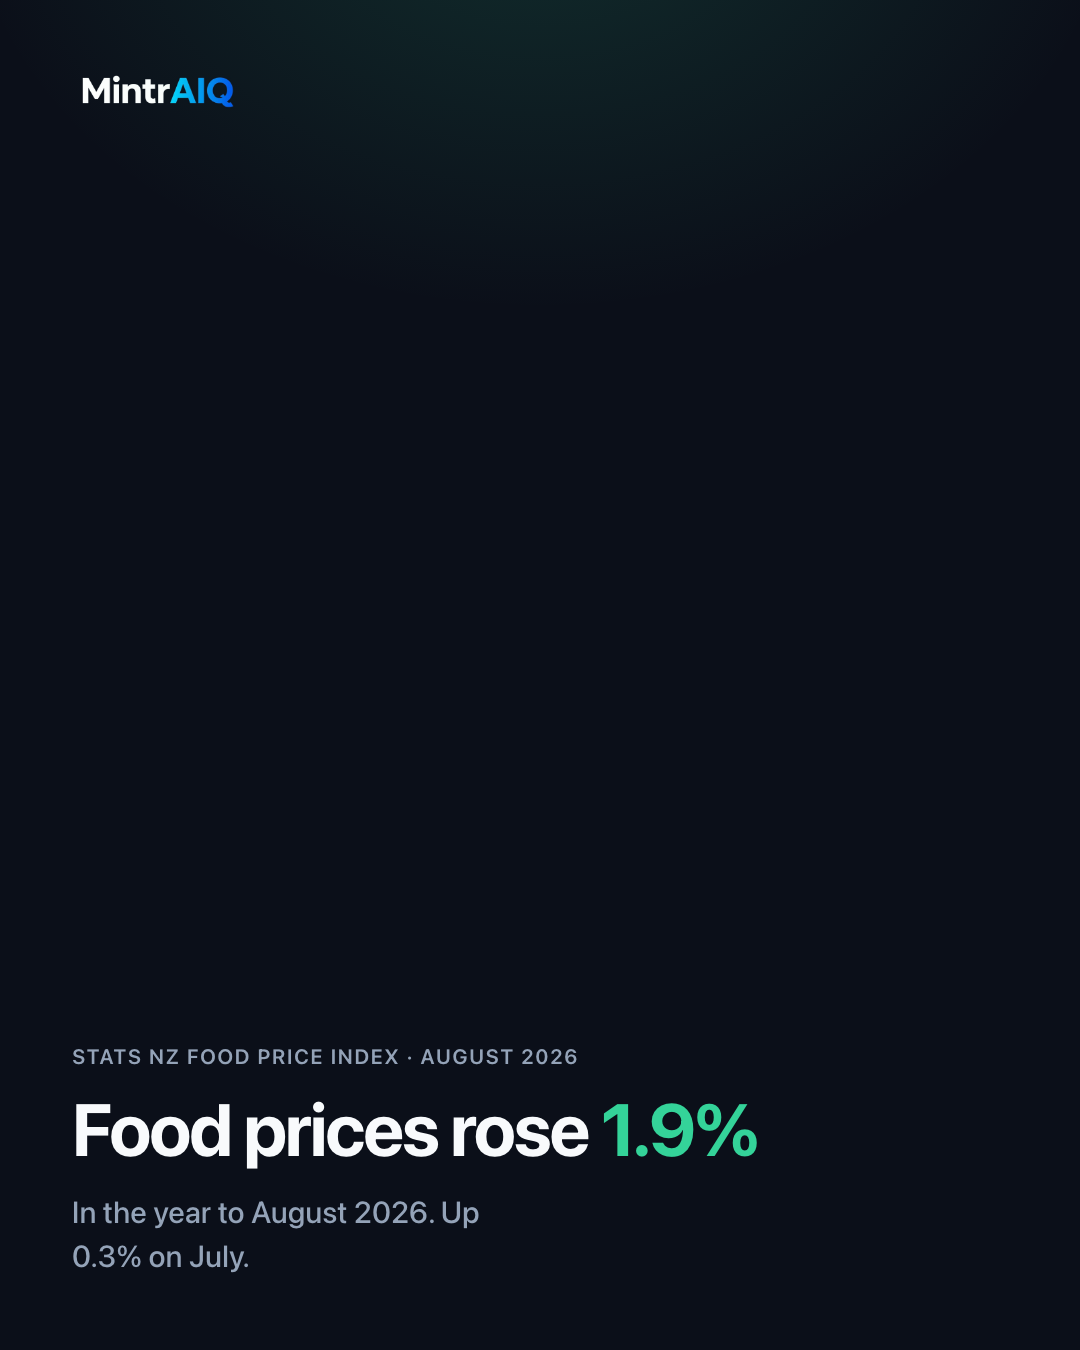
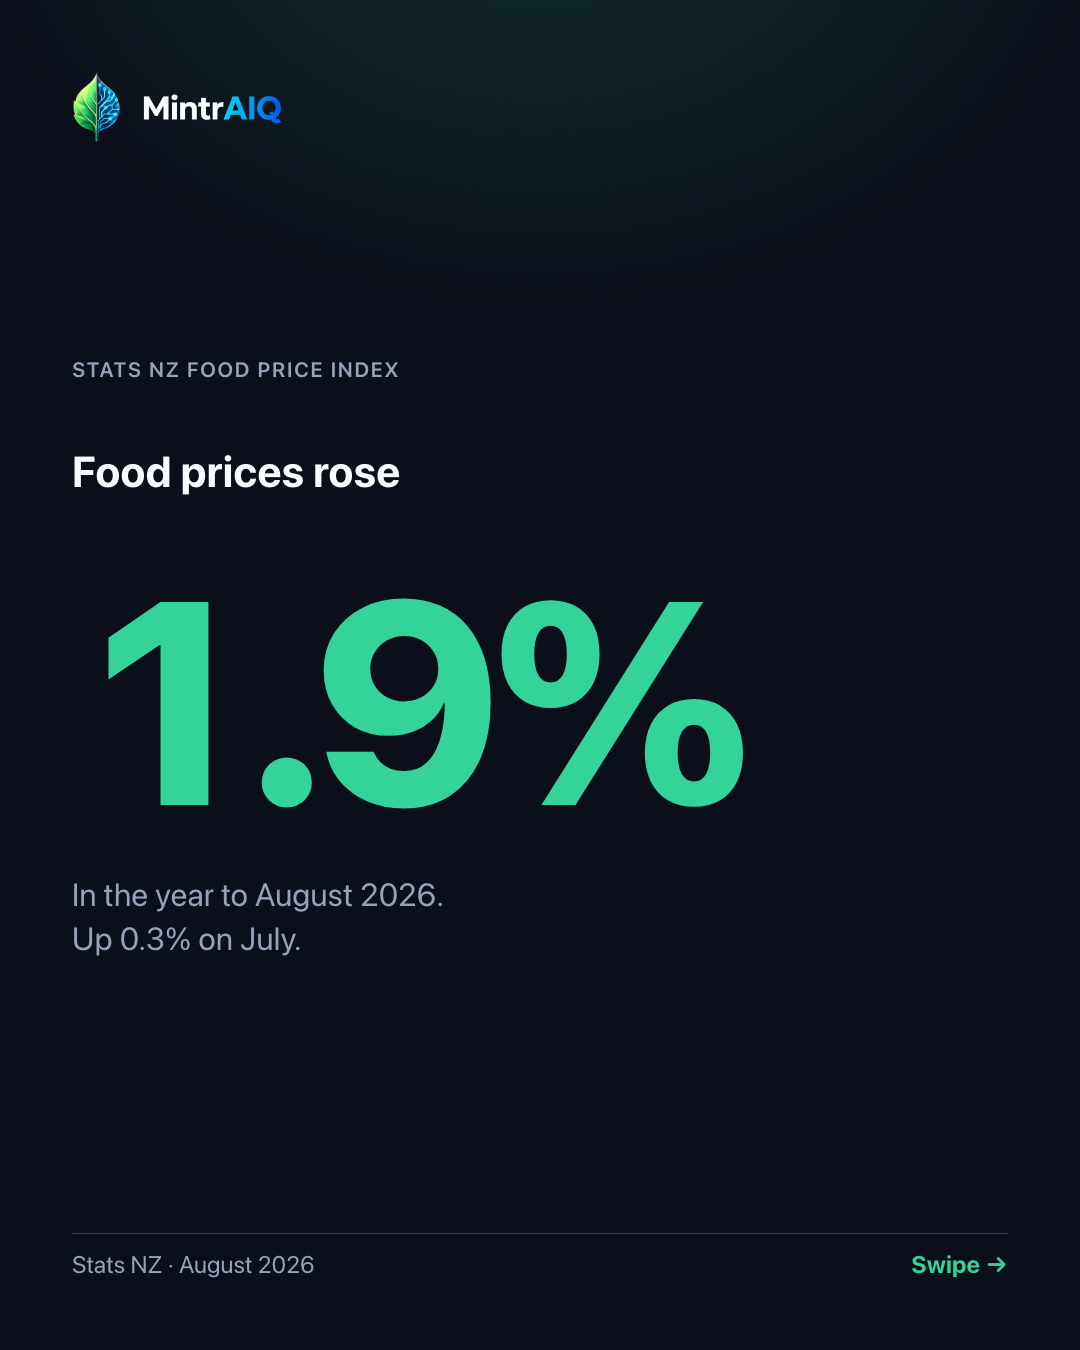
fix(mintraiq-web): compose the full lockup and stop the frames reading as empty
Two things from founder review.

The header carries the full lockup now — leaf plus wordmark, not the wordmark
alone. Built from the two transparent sources rather than a logo file: all three
shipped logo assets (mintraiq-logo, mintraiq-logo-wordmark, mintr-app-icon) have
opaque dark backgrounds baked in, and the lockup supplied for reference is on
white. Any of them would draw a rectangle on the #0B0F19 canvas, which is the
trap the brand reference already records for the shipped wordmark. Compositing
the keyed wordmark beside assets/mintr-leaf-mark.png gives the same lockup with
no background to fight.

The dead space was real and it was my error. frame.css anchors content to the
bottom because that is correct for a reel, where the action rail and caption eat
the lower 18% — a feed carousel has neither, so the same rule left the top half
empty and the hook small in the feed. Feed frames are now centred, the type
scale is up, and slides 1-3 carry a footer rule with a swipe affordance so the
bottom is anchored rather than merely unoccupied.

Slide 1 is rebuilt around the figure itself. On a `number` post the number is
the image: at thumbnail size a large percentage still reads and a sentence does
not.

Slide 4 lost its standalone leaf, which became a repeat once the header gained
one.

diff --git a/marketing/reels/2026-09-20-food-index/frames/02-spread.html b/marketing/reels/2026-09-20-food-index/frames/02-spread.html
@@ -10,9 +10,39 @@
                font-variant-numeric: tabular-nums; color: var(--text); }
   .cmp .up   { color: var(--text); }
   .cmp .down { color: var(--danger); }
+  .hook { font-size: calc(112px * var(--u)); }
+  .headline { font-size: calc(78px * var(--u)); }
+  .body { font-size: calc(44px * var(--u)); max-width: 26ch; }
+  /* Anchors the bottom of the frame. Without it the header holds the top and
+     the lower third reads as unfinished rather than as deliberate space. */
+  .foot { position: absolute; left: var(--pad); right: var(--pad);
+          bottom: var(--pad); display: flex; align-items: center;
+          justify-content: space-between;
+          font-size: calc(30px * var(--u)); color: var(--text-muted);
+          border-top: 1px solid var(--border); padding-top: calc(20px * var(--u)); }
+  .foot .swipe { color: var(--mint); font-weight: 700; }
+</style>
+<style>
+  /* Full lockup: leaf + wordmark, both from transparent sources so they
+     composite on the dark canvas. Leaf runs taller than the wordmark, matching
+     the brand lockup proportions. */
+  .lockup { display: flex; align-items: center; gap: calc(16px * var(--u)); }
+  .lockup .leafmark { height: calc(92px * var(--u)); width: auto; }
+  .lockup .word     { height: calc(44px * var(--u)); width: auto; }
+  .hook { font-size: calc(112px * var(--u)); }
+  .headline { font-size: calc(78px * var(--u)); }
+  .body { font-size: calc(44px * var(--u)); max-width: 26ch; }
+  /* Anchors the bottom of the frame. Without it the header holds the top and
+     the lower third reads as unfinished rather than as deliberate space. */
+  .foot { position: absolute; left: var(--pad); right: var(--pad);
+          bottom: var(--pad); display: flex; align-items: center;
+          justify-content: space-between;
+          font-size: calc(30px * var(--u)); color: var(--text-muted);
+          border-top: 1px solid var(--border); padding-top: calc(20px * var(--u)); }
+  .foot .swipe { color: var(--mint); font-weight: 700; }
 </style>
 <body class="frame feed glow is-centered">
-  <div class="lockup"><img src="/Users/ram/.claude/plugins/cache/mintraiq/mintraiq-toolkit/0.10.0/skills/marketing-reel/templates/assets/wordmark.png" alt="Mintr"></div>
+  <div class="lockup"><img class="leafmark" src="/Users/ram/Desktop/Ram/mintraiq-web/assets/mintr-leaf-mark.png" alt=""><img class="word" src="/Users/ram/.claude/plugins/cache/mintraiq/mintraiq-toolkit/0.10.0/skills/marketing-reel/templates/assets/wordmark.png" alt="Mintr"></div>
   <span class="label">Annual change to August 2026</span>
   <h1 class="headline">The average <em>hid this</em></h1>
   <div class="cmp">
@@ -21,5 +51,6 @@
     <div class="line"><span class="name">Grocery food</span><span class="rule"></span><span class="val up">+1.7%</span></div>
     <div class="line"><span class="name">Fruit and vegetables</span><span class="rule"></span><span class="val down">−1.6%</span></div>
   </div>
-  <p class="body" style="margin-top:calc(28px * var(--u)); max-width:100%">Source: Stats NZ food price index</p>
+  <p class="body" style="max-width:100%">Source: Stats NZ food price index</p>
+  <div class="foot"><span></span><span class="swipe">Swipe →</span></div>
 </body>

diff --git a/marketing/reels/2026-09-20-food-index/frames/01-hook.html b/marketing/reels/2026-09-20-food-index/frames/01-hook.html
@@ -1,9 +1,36 @@
 <!doctype html>
 <meta charset="utf-8">
 <link rel="stylesheet" href="/Users/ram/.claude/plugins/cache/mintraiq/mintraiq-toolkit/0.10.0/skills/marketing-reel/templates/frame.css">
-<body class="frame feed glow">
-  <div class="lockup"><img src="/Users/ram/.claude/plugins/cache/mintraiq/mintraiq-toolkit/0.10.0/skills/marketing-reel/templates/assets/wordmark.png" alt="Mintr"></div>
-  <span class="label">Stats NZ food price index · August 2026</span>
-  <h1 class="hook">Food prices rose <em>1.9%</em></h1>
-  <p class="body">In the year to August 2026. Up 0.3% on July.</p>
+<style>
+  .lockup { display: flex; align-items: center; gap: calc(16px * var(--u)); }
+  .lockup .leafmark { height: calc(92px * var(--u)); width: auto; }
+  .lockup .word     { height: calc(44px * var(--u)); width: auto; }
+  /* The figure is the image. At thumbnail size a number still reads; a
+     sentence does not. */
+  .hero { font-size: calc(360px * var(--u)); font-weight: 800; line-height: 0.86;
+          letter-spacing: -0.04em; font-variant-numeric: tabular-nums;
+          color: var(--mint); margin: calc(14px * var(--u)) 0; }
+  .over { font-size: calc(54px * var(--u)); font-weight: 700; color: var(--text);
+          line-height: 1.15; max-width: 20ch; }
+  .under { font-size: calc(40px * var(--u)); color: var(--text-muted);
+           line-height: 1.4; margin-top: calc(22px * var(--u)); max-width: 24ch; }
+  /* Anchors the bottom of the frame. Without it the header holds the top and
+     the lower third reads as unfinished rather than as deliberate space. */
+  .foot { position: absolute; left: var(--pad); right: var(--pad);
+          bottom: var(--pad); display: flex; align-items: center;
+          justify-content: space-between;
+          font-size: calc(30px * var(--u)); color: var(--text-muted);
+          border-top: 1px solid var(--border); padding-top: calc(20px * var(--u)); }
+  .foot .swipe { color: var(--mint); font-weight: 700; }
+</style>
+<body class="frame feed glow is-centered">
+  <div class="lockup">
+    <img class="leafmark" src="/Users/ram/Desktop/Ram/mintraiq-web/assets/mintr-leaf-mark.png" alt="">
+    <img class="word" src="/Users/ram/.claude/plugins/cache/mintraiq/mintraiq-toolkit/0.10.0/skills/marketing-reel/templates/assets/wordmark.png" alt="Mintr">
+  </div>
+  <span class="label">Stats NZ food price index</span>
+  <p class="over">Food prices rose</p>
+  <p class="hero">1.9%</p>
+  <p class="under">In the year to August 2026.<br>Up 0.3% on July.</p>
+  <div class="foot"><span>Stats NZ · August 2026</span><span class="swipe">Swipe →</span></div>
 </body>

diff --git a/marketing/reels/2026-09-20-food-index/frames/03-point.html b/marketing/reels/2026-09-20-food-index/frames/03-point.html
@@ -1,9 +1,29 @@
 <!doctype html>
 <meta charset="utf-8">
 <link rel="stylesheet" href="/Users/ram/.claude/plugins/cache/mintraiq/mintraiq-toolkit/0.10.0/skills/marketing-reel/templates/frame.css">
-<body class="frame feed glow">
-  <div class="lockup"><img src="/Users/ram/.claude/plugins/cache/mintraiq/mintraiq-toolkit/0.10.0/skills/marketing-reel/templates/assets/wordmark.png" alt="Mintr"></div>
+<style>
+  /* Full lockup: leaf + wordmark, both from transparent sources so they
+     composite on the dark canvas. Leaf runs taller than the wordmark, matching
+     the brand lockup proportions. */
+  .lockup { display: flex; align-items: center; gap: calc(16px * var(--u)); }
+  .lockup .leafmark { height: calc(92px * var(--u)); width: auto; }
+  .lockup .word     { height: calc(44px * var(--u)); width: auto; }
+  .hook { font-size: calc(112px * var(--u)); }
+  .headline { font-size: calc(78px * var(--u)); }
+  .body { font-size: calc(44px * var(--u)); max-width: 26ch; }
+  /* Anchors the bottom of the frame. Without it the header holds the top and
+     the lower third reads as unfinished rather than as deliberate space. */
+  .foot { position: absolute; left: var(--pad); right: var(--pad);
+          bottom: var(--pad); display: flex; align-items: center;
+          justify-content: space-between;
+          font-size: calc(30px * var(--u)); color: var(--text-muted);
+          border-top: 1px solid var(--border); padding-top: calc(20px * var(--u)); }
+  .foot .swipe { color: var(--mint); font-weight: 700; }
+</style>
+<body class="frame feed glow is-centered">
+  <div class="lockup"><img class="leafmark" src="/Users/ram/Desktop/Ram/mintraiq-web/assets/mintr-leaf-mark.png" alt=""><img class="word" src="/Users/ram/.claude/plugins/cache/mintraiq/mintraiq-toolkit/0.10.0/skills/marketing-reel/templates/assets/wordmark.png" alt="Mintr"></div>
   <span class="label">Five points, top to bottom</span>
   <h1 class="hook">An average <em>isn't a basket</em></h1>
   <p class="body">One number covers the shelf that rose and the shelf that fell. Yours only holds some of it.</p>
+  <div class="foot"><span></span><span class="swipe">Swipe →</span></div>
 </body>

diff --git a/marketing/reels/2026-09-20-food-index/frames/04-close.html b/marketing/reels/2026-09-20-food-index/frames/04-close.html
@@ -4,13 +4,25 @@
 <style>
   .attrib { font-size: calc(19px * var(--u)); line-height: 1.45; color: var(--text-muted);
             margin-top: calc(26px * var(--u)); max-width: 82%; }
-  .leaf { height: calc(190px * var(--u)); width: auto; display: block; }
   .cta { font-size: calc(34px * var(--u)); font-weight: 700; color: var(--mint);
          margin-top: calc(18px * var(--u)); }
+  .hook { font-size: calc(112px * var(--u)); }
+  .headline { font-size: calc(78px * var(--u)); }
+  .body { font-size: calc(44px * var(--u)); max-width: 26ch; }
 </style>
-<body class="frame feed glow">
-  <div class="lockup"><img src="/Users/ram/.claude/plugins/cache/mintraiq/mintraiq-toolkit/0.10.0/skills/marketing-reel/templates/assets/wordmark.png" alt="Mintr"></div>
-  <div class="row"><img class="leaf" src="/Users/ram/Desktop/Ram/mintraiq-web/assets/mintr-leaf-mark.png" alt=""></div>
+<style>
+  /* Full lockup: leaf + wordmark, both from transparent sources so they
+     composite on the dark canvas. Leaf runs taller than the wordmark, matching
+     the brand lockup proportions. */
+  .lockup { display: flex; align-items: center; gap: calc(16px * var(--u)); }
+  .lockup .leafmark { height: calc(92px * var(--u)); width: auto; }
+  .lockup .word     { height: calc(44px * var(--u)); width: auto; }
+  .hook { font-size: calc(112px * var(--u)); }
+  .headline { font-size: calc(78px * var(--u)); }
+  .body { font-size: calc(44px * var(--u)); max-width: 26ch; }
+</style>
+<body class="frame feed glow is-centered">
+  <div class="lockup"><img class="leafmark" src="/Users/ram/Desktop/Ram/mintraiq-web/assets/mintr-leaf-mark.png" alt=""><img class="word" src="/Users/ram/.claude/plugins/cache/mintraiq/mintraiq-toolkit/0.10.0/skills/marketing-reel/templates/assets/wordmark.png" alt="Mintr"></div>
   <h1 class="headline">See what your own basket did</h1>
   <p class="body" style="max-width:88%">Mintr charts your grocery items against the Stats NZ food price index average.</p>
   <p class="cta">mintraiq.com/go</p>
